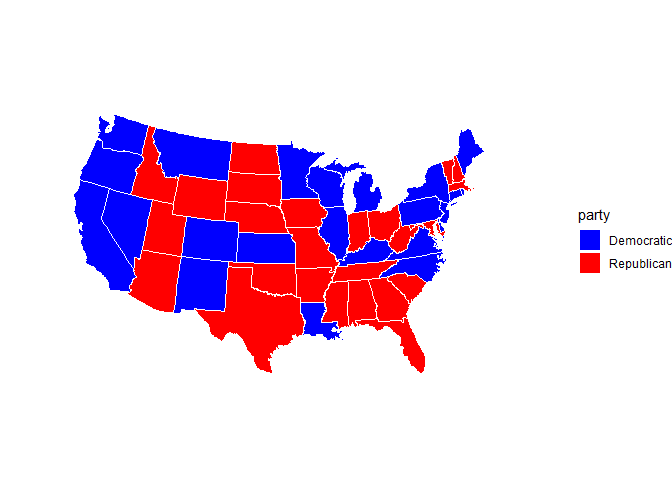
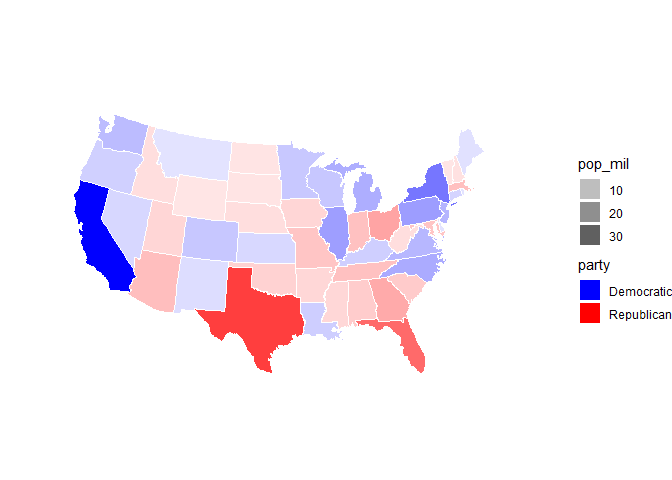
add population as alpha to red blue map

Changed region(s): [[0.0938, 0.2188, 0.7188, 0.7812], [0.8438, 0.3125, 1.0, 0.6875]]

diff --git a/USA.md b/USA.md
@@ -21,24 +21,24 @@ of 50 states and 1 federal district (District of Columbia) from
 [USAFacts
 page](https://usafacts.org/visualizations/coronavirus-covid-19-spread-map/).
 
-## U.S. deaths (new) by red or blue states
-
 I separate red or blue by state governors (in case of DC, a mayor),
 according to [List of United States
 governors](https://en.wikipedia.org/wiki/List_of_United_States_governors).
-Out of the map below, Alaska is red and Hawaii is blue.
+Out of the map below, Alaska is red and Hawaii is blue. I download
+population data in data directory from [Census Bureau
+page](https://www.census.gov/data/tables/time-series/demo/popest/2010s-state-total.html),
+and use estimated population as of July 1, 2019.
 
 ![](USA_files/figure-gfm/map-1.png)<!-- -->
+
+## U.S. deaths (new) by red or blue states
 
 I am worrying that too vigorous “reopen economy” movements in the red
 states in the United States may cause the second wave.
 
 ![](USA_files/figure-gfm/chart1-1.png)<!-- -->
 
-I download population data in data directory from [Census Bureau
-page](https://www.census.gov/data/tables/time-series/demo/popest/2010s-state-total.html),
-and use estimated population as of July 1, 2019. Populations in millions
-are:
+Populations in millions by red or blue are:
 
     ## # A tibble: 2 x 2
     ##   party      pop_mil
